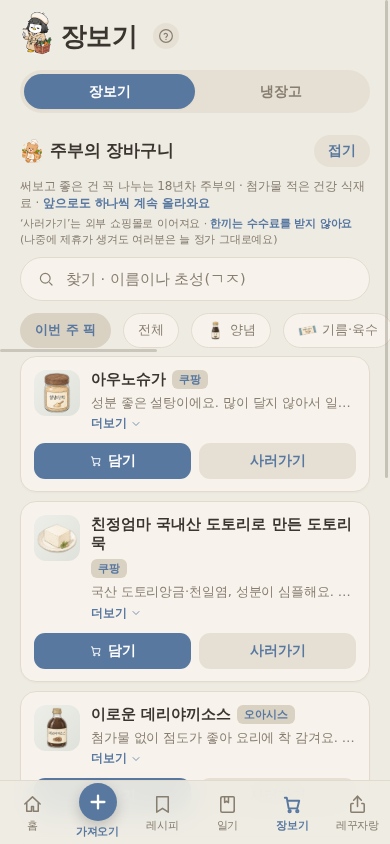
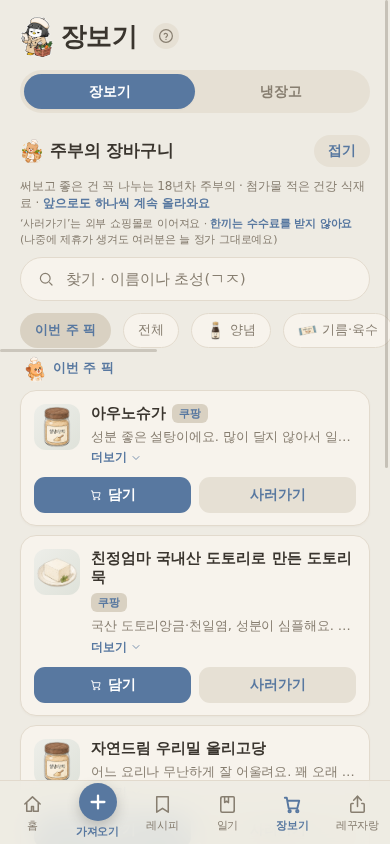
feat: 이번 주 픽 - 새로 올린 것 우선 + 엄지척 스티커
창업자: "이번주 픽은 새로 열린거 우선으로 올려줘"
       "스티커도 하나 달아주면 좋을 것 같아(이번주픽에)"

1) 새 것 우선 (weeklypick.js)
   - since 날짜로 4주간 "새 것" -> 회전을 건너뛰고 앞에 선다
   - 날짜로 재니 저절로 낡는다 (손으로 new 표시를 지울 일이 없다)
   - 회전은 전체를 한 바퀴 도는 구조라 새 제품이 몇 주~몇 달 뒤에나 떴다
   - import 안 늘림 (게이트가 노드만으로 읽어야 한다)

2) 스티커 (ShopScreen)
   - 픽엔 원래 소제목이 없어 카드만 나열됐다 -> 다른 갈래와 같은 문법으로 소제목 신설
   - gom_shop은 이 화면 헤더에 이미 있어 중복 -> gom_thumbsup(엄지척)
     "이번 주 픽 = 내가 고른 추천"이라는 뜻이 그대로 읽힌다

실물 확인(규칙 21): 스티커/올리고당/하바티 전부 화면에 뜸
남은 판정: 순서가 "1 레시피가 쓰는 것 -> 2 새 것"이라 새 것이 3번째로 밀렸다

Changed region(s): [[0.0615, 0.4313, 0.9231, 0.9242], [0.0615, 0.0, 0.1538, 0.0924], [0.9846, 0.5545, 1.0, 0.5853]]

diff --git a/hankki/src/data/weeklypick.js b/hankki/src/data/weeklypick.js
@@ -11,11 +11,28 @@
 // ⛔ 연중 주차로 세면 12월 말~1월 초에 튄다.
 export const weekNo = (ymd) => Math.floor(Date.parse(`${ymd}T00:00:00Z`) / 604800000)
 
-// 이번 주 픽 = ①이번 주 레시피가 쓰는 제품 ②모자라면 주차로 밀어 채운다.
+// 🆕 「새로 올린 것」으로 치는 기간 = **4주**.
+//   ⭐ 날짜로 재니 **저절로 낡는다** — 손으로 `new: true` 를 지울 일이 없다(지우는 걸 잊으면 영영 새 것이 된다).
+export const NEW_WEEKS = 4
+export const 새것인가 = (since, today) =>
+  !!(since && today && weekNo(today) - weekNo(since) >= 0 && weekNo(today) - weekNo(since) < NEW_WEEKS)
+
+// 이번 주 픽 = ①이번 주 레시피가 쓰는 제품 ②**새로 올린 것** ③모자라면 주차로 밀어 채운다.
 //   matched = ①의 결과(호출부가 넘긴다) · products = 전체 제품
+//
+// 🆕🆕 [창업자 2026-08-17] *"주부 장바구니 이번주 픽은 **새로 열린거 우선으로** 올려줘"*
+//   ⭐⭐ 왜 필요한가 — 회전(`off`)은 **전체 목록을 한 바퀴 도는** 구조라, 새 제품을 올려도
+//      그 차례가 오기까지 **몇 주~몇 달**이 걸린다. 창업자가 설명을 써서 올린 그 주에 안 뜨면
+//      **「올린 보람」이 없다.** 그래서 새 것은 회전을 «건너뛰고» 앞에 선다.
+//   ⏰ 4주가 지나면 저절로 회전 대열로 돌아간다(`새것인가`).
+//   ⛔ 순서는 **①레시피가 쓰는 것 → ②새 것 → ③회전** — ①이 먼저인 건 안 바꾼다.
+//      그건 «이번 주 요리에 실제로 필요한 것»이라 광고가 아니라 안내다.
 export const pickRotate = ({ products = [], matched = [], today = '', n = 4 } = {}) => {
   const 담김 = new Set(matched.map((p) => p && p.name).filter(Boolean))
-  const 나머지 = products.filter((p) => p && !담김.has(p.name))
+  const 안담김 = products.filter((p) => p && !담김.has(p.name))
+  const 새것 = 안담김.filter((p) => 새것인가(p.since, today))
+  const 나머지 = 안담김.filter((p) => !새것인가(p.since, today))
+  if (새것.length) return [...matched, ...새것, ...나머지].slice(0, n)
   if (!나머지.length) return matched.slice(0, n)
   // ⭐⭐ **한 주에 `n` 칸씩 민다** — 한 칸씩 밀면 4개 중 3개가 다음 주에도 그대로 남는다.
   //    창업자가 *"매주 꼭 바꿔줘"* 라고 한 건 «다른 게 뜬다»는 뜻이지 «하나만 바뀐다»가 아니다.

diff --git a/hankki/src/data/curation.js b/hankki/src/data/curation.js
@@ -80,7 +80,7 @@ export const CURATION = [
       // 🛒 2026-08-17 「주부의 장바구니」 1판 ① — 창업자 원문 = `docs/장바구니-창업자자료-2026-08-09.md` 6⃣
       //   ⭐ 이 목록에서 **빈칸이 제일 큰 재료**다 — 기본 레시피 **28편**이 「올리고당 N큰술」을 쓰는데 앱엔 제품이 없었다.
       //   ⚠ 자연드림은 직접 주소를 아직 못 받았다 → `q` 검색(네이버 폴백). ⛔한살림과 달리 **비조합원도 살 수 있다**(창업자 확정).
-      { name: '자연드림 우리밀 올리고당', matches: ['올리고당'], benefit: '어느 요리나 무난하게 잘 어울려요. 꽤 오래 사용했던 템이에요', q: '자연드림 우리밀 올리고당' },
+      { name: '자연드림 우리밀 올리고당', matches: ['올리고당'], benefit: '어느 요리나 무난하게 잘 어울려요. 꽤 오래 사용했던 템이에요', q: '자연드림 우리밀 올리고당', since: '2026-08-17' },
     ],
   },
   {
@@ -149,7 +149,7 @@ export const CURATION = [
       //      🔢 실측 = 재료에 「치즈」가 든 줄 8개 중 **하바티에 맞는 건 슬라이스 2줄뿐**.
       //   ✅ 그래서 **「슬라이스」**로 좁혔다 — 저장소 전체에서 그 토큰이 든 줄은 **「슬라이스 치즈 2장」 하나**다.
       //      (부대찌개의 「치즈 1장」은 놓치지만, **잘못 붙는 것보다 낫다** — 주석 262줄 원칙)
-      { name: '알라 하바티치즈', matches: ['슬라이스'], benefit: '어떤 샌드위치에나 무난하게 잘 어울리는 치즈예요. 코스트코에서 대용량으로 사면 완전 저렴하지만, 급할 때는 쿠팡에서 가끔 주문해요. 저는 글래드랩에 개별 포장해서 냉동실에 넣어두고 써요', url: 'https://www.coupang.com/vp/products/184626081?itemId=528358851&vendorItemId=95181086574' },
+      { name: '알라 하바티치즈', matches: ['슬라이스'], benefit: '어떤 샌드위치에나 무난하게 잘 어울리는 치즈예요. 코스트코에서 대용량으로 사면 완전 저렴하지만, 급할 때는 쿠팡에서 가끔 주문해요. 저는 글래드랩에 개별 포장해서 냉동실에 넣어두고 써요', url: 'https://www.coupang.com/vp/products/184626081?itemId=528358851&vendorItemId=95181086574', since: '2026-08-17' },
     ],
   },
   {
